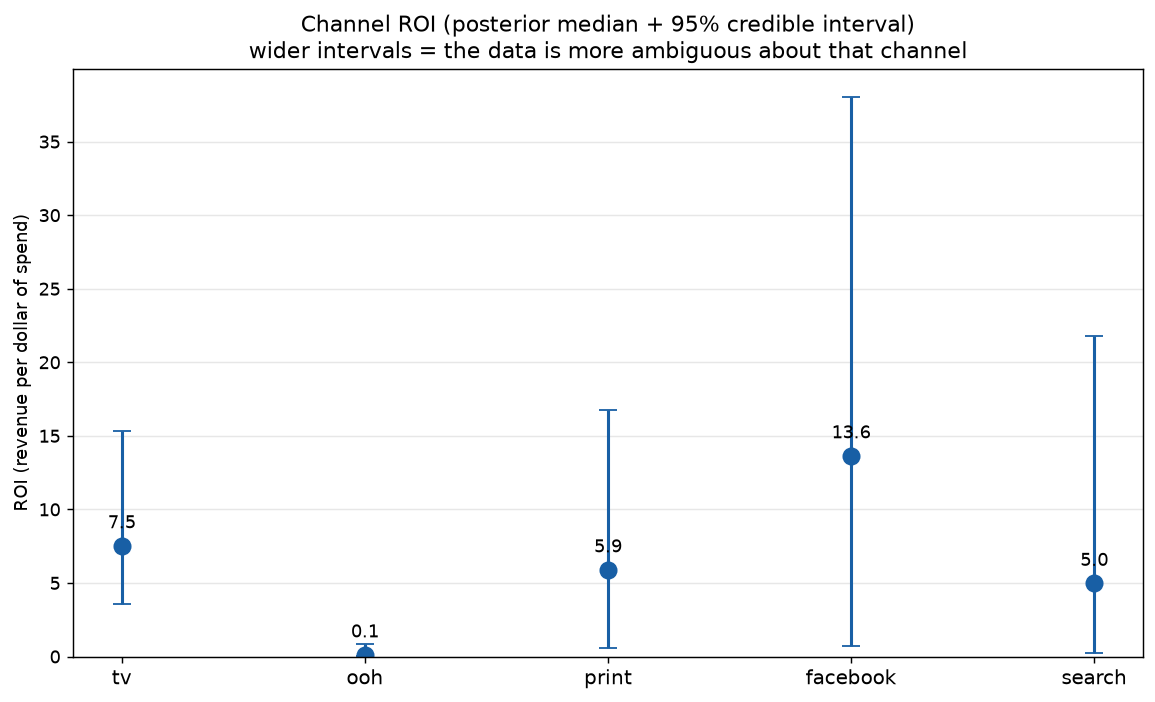
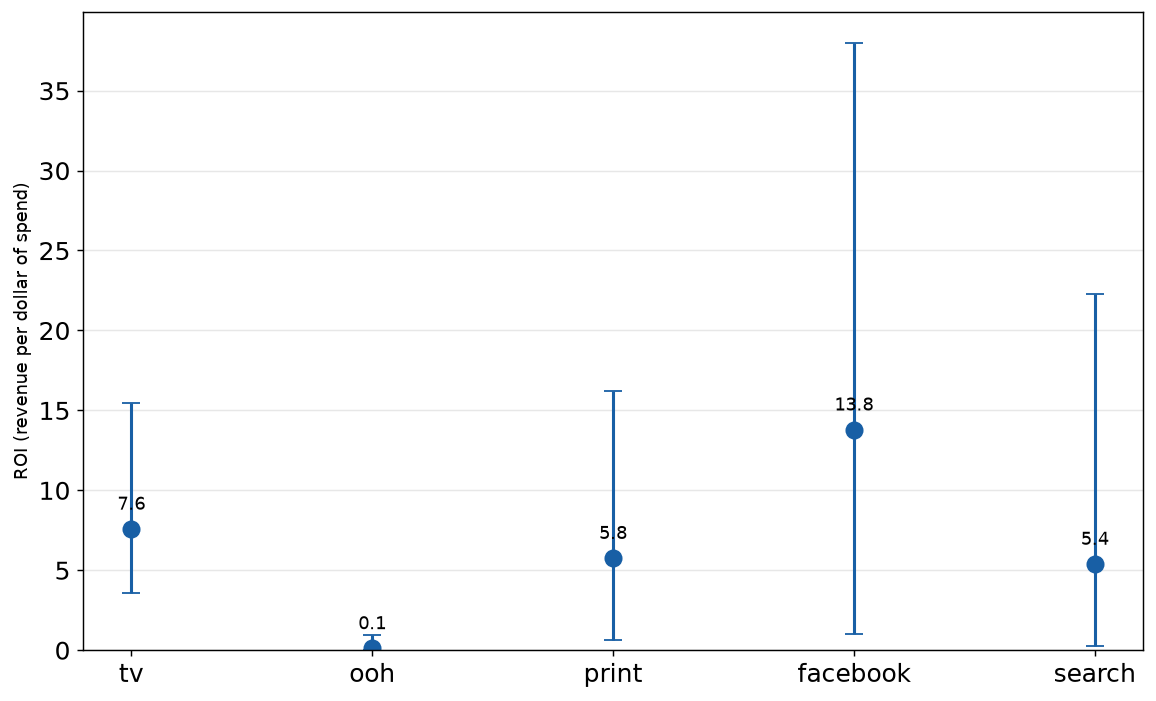
updated

Changed region(s): [[0.0, 0.0, 0.9974, 0.9886]]

diff --git a/robyn_applied.py b/robyn_applied.py
@@ -1,3 +1,152 @@
+# """
+# APPLIED FIT: PyMC-Marketing Bayesian MMM on the Robyn dt_simulated_weekly
+# dataset. This is where the whole apparatus meets real-looking data.
+
+# Two fits:
+
+#   A - well-specified: paid channels + adstock/saturation + linear controls
+#       (competitor_sales_B, newsletter, trend) + Fourier seasonality.
+#       Produces the applied deliverables.
+
+#   B - counterfactual: same as A but competitor_sales_B REMOVED from controls.
+#       Not a full replay of the synthetic confounding experiment (no ground
+#       truth here), but shows how much ROI moves when the strongest available
+#       confounder is omitted - the real-data analog of the "backdoor open"
+#       case.
+
+
+# Reads:
+#   data/robyn_weekly.csv          Robyn's open-source benchmark dataset containing weekly historical spend, revenue, and competitive landscape variables
+
+# Produces:
+#   outputs/robyn_full_posterior.nc    posterior samples for the well-specified model
+#   outputs/robyn_full_roi.nc          posterior ROI samples for the well-specified model
+#   outputs/robyn_full_contrib.nc      channel contribution time-series for the well-specified model
+#   outputs/robyn_nocf_posterior.nc    posterior samples for the counterfactual model (omitted confounder)
+#   outputs/robyn_nocf_roi.nc          posterior ROI samples for the counterfactual model (omitted confounder)
+#   outputs/robyn_nocf_contrib.nc      channel contribution time-series for the counterfactual model (omitted confounder)
+
+# Saves slim outputs so figures regenerate without re-sampling.
+# Runtime: ~15-20 min per fit (208 weeks x 5 channels x tight sampler).
+# Set SMOKE_TEST=True for a fast shakeout.
+
+# Run:  python robyn_applied.py
+# """
+# import json, os, warnings
+# import arviz as az, numpy as np, pandas as pd
+# from pymc_marketing.mmm import MMM, GeometricAdstock, HillSaturation
+# from pymc_marketing.prior import Prior
+
+# warnings.filterwarnings("ignore", category=FutureWarning)
+# warnings.filterwarnings("ignore", category=UserWarning)
+
+# SMOKE_TEST = False
+
+# HERE = os.path.dirname(os.path.abspath(__file__))
+# OUT = os.path.join(HERE, "outputs")
+# os.makedirs(OUT, exist_ok=True)
+
+# # ============================================================ load data ====
+# df = pd.read_csv(os.path.join(HERE, "data", "robyn_weekly.csv"),
+#                  parse_dates=["DATE"])
+# df = df.sort_values("DATE").reset_index(drop=True)
+# df = df.rename(columns={"DATE": "date"})
+# df["t"] = np.arange(len(df))
+
+# # paid media channels (Robyn's _S = spend suffix)
+# paid_cols = ["tv_S", "ooh_S", "print_S", "facebook_S", "search_S"]
+# paid_names = [c.replace("_S", "") for c in paid_cols]
+
+# # controls: competitor sales is the big one (r=+0.92 with revenue).
+# # newsletter is organic marketing (r=+0.41); dropped events (only 2 non-na
+# # weeks in 208 - too few to identify an effect).
+# controls_full = ["competitor_sales_B", "newsletter", "t"]
+# controls_no_confounder = ["newsletter", "t"]   # competitor OMITTED
+
+# print(f"data: {df.shape}   paid channels: {paid_names}")
+# print(f"controls (full):          {controls_full}")
+# print(f"controls (no confounder): {controls_no_confounder}")
+
+# # ==================================================== priors (same as v2) ===
+# def make_config():
+#     return {
+#         "adstock_alpha":    Prior("Beta", alpha=1, beta=3, dims="channel"),
+#         "saturation_slope": Prior("Gamma", alpha=3, beta=1, dims="channel"),
+#         "saturation_kappa": Prior("Beta", alpha=2, beta=2, dims="channel"),
+#         "saturation_beta":  Prior("HalfNormal", sigma=1.0, dims="channel"),
+#         "gamma_control":    Prior("Normal", mu=0, sigma=2, dims="control"),
+#         "gamma_fourier":    Prior("Laplace", mu=0, b=1, dims="fourier_mode"),
+#         "intercept":        Prior("Normal", mu=0, sigma=2, dims=()),
+#         "likelihood":       Prior("Normal",
+#                                   sigma=Prior("HalfNormal", sigma=2, dims=()),
+#                                   dims="date"),
+#     }
+
+# if SMOKE_TEST:
+#     draws, tune, chains = 250, 250, 2
+# else:
+#     draws, tune, chains = 1000, 2000, 4
+
+
+# def fit_and_save(controls, tag, save_prefix):
+#     print(f"\n=== Fit {tag}: controls = {controls} ===")
+#     mmm = MMM(
+#         date_column="date",
+#         channel_columns=paid_cols,
+#         control_columns=controls,
+#         adstock=GeometricAdstock(l_max=12),
+#         saturation=HillSaturation(),
+#         yearly_seasonality=3,
+#         model_config=make_config(),
+#     )
+#     X = df[["date"] + controls + paid_cols]
+#     y = df["revenue"]
+#     idata = mmm.fit(X=X, y=y, draws=draws, tune=tune, chains=chains,
+#                     cores=min(chains, 4), target_accept=0.98, max_treedepth=13,
+#                     random_seed=42, progressbar=False)
+#     n_div = int(idata.sample_stats["diverging"].sum())
+#     print(f"  divergences: {n_div}")
+
+#     # slim saves
+#     az.InferenceData(posterior=idata.posterior).to_netcdf(
+#         os.path.join(OUT, f"{save_prefix}_posterior.nc"))
+
+#     contrib = mmm.compute_channel_contribution_original_scale()
+#     total_spend = df[paid_cols].sum().values
+#     roi = contrib.sum(dim="date") / total_spend
+#     roi.to_netcdf(os.path.join(OUT, f"{save_prefix}_roi.nc"))
+
+#     # save full contribution time-series (needed for stacked area figure)
+#     contrib.to_netcdf(os.path.join(OUT, f"{save_prefix}_contrib.nc"))
+
+#     print(f"  saved outputs/{save_prefix}_*.nc")
+#     return roi
+
+
+# # =============================================================== run both ==
+# roi_full = fit_and_save(controls_full, "A (well-specified)", "robyn_full")
+# roi_nocf = fit_and_save(controls_no_confounder,
+#                         "B (competitor OMITTED)", "robyn_nocf")
+
+# # =============================================================== compare ===
+# print("\n" + "=" * 72)
+# print("ROBYN: ROI shift when competitor_sales_B is OMITTED as control")
+# print("=" * 72)
+# print(f"{'channel':<9s} {'well-spec':>10s} {'omit-cf':>10s} {'shift':>7s} {'pct':>7s}")
+# for i, ch in enumerate(paid_names):
+#     a = float(np.median(roi_full.isel(channel=i).values.ravel()))
+#     b = float(np.median(roi_nocf.isel(channel=i).values.ravel()))
+#     shift = b - a
+#     pct = 100 * shift / a if a != 0 else float("nan")
+#     print(f"{ch:<9s} {a:>10.2f} {b:>10.2f} {shift:>+7.2f} {pct:>+6.1f}%")
+
+# print("\nReading: 'shift' is the ROI change when the confounder is omitted.")
+# print("On synthetic data, omitting the confounder inflates ROI. If Robyn")
+# print("shows the same pattern, that's consistent evidence (though not proof,")
+# print("since we lack ground truth here).")
+
+# RUN 2: Takes longer! 2+ hours!
+
 """
 APPLIED FIT: PyMC-Marketing Bayesian MMM on the Robyn dt_simulated_weekly
 dataset. This is where the whole apparatus meets real-looking data.
@@ -14,8 +163,18 @@ Two fits:
       confounder is omitted - the real-data analog of the "backdoor open"
       case.
 
-Saves slim outputs so figures regenerate without re-sampling.
+Reads:
+  data/robyn_weekly.csv          Robyn's open-source benchmark dataset containing weekly historical spend, revenue, and competitive landscape variables
 
+Produces:
+  outputs/robyn_full_posterior.nc    posterior samples for the well-specified model
+  outputs/robyn_full_roi.nc          posterior ROI samples for the well-specified model
+  outputs/robyn_full_contrib.nc      channel contribution time-series for the well-specified model
+  outputs/robyn_nocf_posterior.nc    posterior samples for the counterfactual model (omitted confounder)
+  outputs/robyn_nocf_roi.nc          posterior ROI samples for the counterfactual model (omitted confounder)
+  outputs/robyn_nocf_contrib.nc      channel contribution time-series for the counterfactual model (omitted confounder)
+
+Saves slim outputs so figures regenerate without re-sampling.
 Runtime: ~15-20 min per fit (208 weeks x 5 channels x tight sampler).
 Set SMOKE_TEST=True for a fast shakeout.
 
@@ -63,9 +222,13 @@ def make_config():
         "saturation_slope": Prior("Gamma", alpha=3, beta=1, dims="channel"),
         "saturation_kappa": Prior("Beta", alpha=2, beta=2, dims="channel"),
         "saturation_beta":  Prior("HalfNormal", sigma=1.0, dims="channel"),
-        "gamma_control":    Prior("Normal", mu=0, sigma=2, dims="control"),
+        
+        # --- FIX 1: TIGHTENED PRIORS FOR REGULARIZATION ---
+        # Dropped gamma_control sigma from 2 to 0.5 to prevent wild coefficient
+        # swings caused by the extreme collinearity of competitor_sales_B
+        "gamma_control":    Prior("Normal", mu=0, sigma=0.5, dims="control"),
         "gamma_fourier":    Prior("Laplace", mu=0, b=1, dims="fourier_mode"),
-        "intercept":        Prior("Normal", mu=0, sigma=2, dims=()),
+        "intercept":        Prior("Normal", mu=0, sigma=1, dims=()), # Dropped from 2 to 1
         "likelihood":       Prior("Normal",
                                   sigma=Prior("HalfNormal", sigma=2, dims=()),
                                   dims="date"),
@@ -74,7 +237,7 @@ def make_config():
 if SMOKE_TEST:
     draws, tune, chains = 250, 250, 2
 else:
-    draws, tune, chains = 1000, 1000, 4
+    draws, tune, chains = 1000, 2000, 4
 
 
 def fit_and_save(controls, tag, save_prefix):
@@ -90,9 +253,14 @@ def fit_and_save(controls, tag, save_prefix):
     )
     X = df[["date"] + controls + paid_cols]
     y = df["revenue"]
+    
+    # --- FIX 2: MORE CAUTIOUS SAMPLER ---
+    # Increased target_accept from 0.98 to 0.995 (forces smaller steps)
+    # Increased max_treedepth from 13 to 15 (gives runway for those smaller steps)
     idata = mmm.fit(X=X, y=y, draws=draws, tune=tune, chains=chains,
-                    cores=min(chains, 4), target_accept=0.98, max_treedepth=12,
+                    cores=min(chains, 4), target_accept=0.995, max_treedepth=15,
                     random_seed=42, progressbar=False)
+                    
     n_div = int(idata.sample_stats["diverging"].sum())
     print(f"  divergences: {n_div}")
 

diff --git a/make_robyn_figures.py b/make_robyn_figures.py
@@ -57,9 +57,14 @@ for i, ch in enumerate(paid_names):
                     alpha=0.85, label=ch)
     cumulative = cumulative + c
 ax.plot(dates, df["revenue"], color="black", lw=1.0, label="actual revenue")
-ax.set_ylabel("revenue"); ax.set_title(
-    "Contribution decomposition: how much revenue each channel drove")
-ax.legend(fontsize=9, loc="upper left", ncol=2); ax.grid(alpha=0.3)
+ax.set_ylabel("Revenue")
+# ax.set_title(
+    # "Contribution decomposition: how much revenue each channel drove")
+ax.legend(fontsize=12, loc="upper right", ncol=2); ax.grid(alpha=0.3)
+
+# Increase the font size of the actual numbers on the x and y axes
+ax.tick_params(axis="both", which="major", labelsize=14)
+
 fig.tight_layout()
 out = os.path.join(FIG, "robyn_contribution.png")
 fig.savefig(out, dpi=130, bbox_inches="tight"); print(f"saved {out}")
@@ -88,8 +93,12 @@ for i, ch in enumerate(paid_names):
     if hi[i] > ymax:
         ax.annotate(f"CI to {hi[i]:.0f}", (x[i], ymax*0.97),
                     fontsize=7, ha="center", color="#185FA5", rotation=90, va="top")
-ax.set_title("Channel ROI (posterior median + 95% credible interval)\n"
-             "wider intervals = the data is more ambiguous about that channel")
+# ax.set_title("Channel ROI (posterior median + 95% credible interval)\n"
+            #  "wider intervals = the data is more ambiguous about that channel")
+
+# Increase the font size of the actual numbers on the x and y axes
+ax.tick_params(axis="both", which="major", labelsize=14)
+
 ax.grid(alpha=0.3, axis="y")
 fig.tight_layout()
 out = os.path.join(FIG, "robyn_roi_table.png")
@@ -114,9 +123,13 @@ ax.set_xticks(x); ax.set_xticklabels(paid_names, fontsize=11)
 ax.set_ylabel("ROI (posterior median + 95% CI)")
 ymax = min(max(20, max(hi.max(), hi_nocf.max())*1.05), 200)
 ax.set_ylim(0, ymax)
-ax.set_title("Real-data analog of the confounding experiment:\n"
-             "how much do ROI estimates shift when the strongest control is dropped?")
-ax.legend(fontsize=9); ax.grid(alpha=0.3, axis="y")
+# ax.set_title("Real-data analog of the confounding experiment:\n"
+            #  "how much do ROI estimates shift when the strongest control is dropped?")
+ax.legend(fontsize=12); ax.grid(alpha=0.3, axis="y")
+
+# Increase the font size of the actual numbers on the x and y axes
+ax.tick_params(axis="both", which="major", labelsize=14)
+
 fig.tight_layout()
 out = os.path.join(FIG, "robyn_omitted_confounder.png")
 fig.savefig(out, dpi=130, bbox_inches="tight"); print(f"saved {out}")